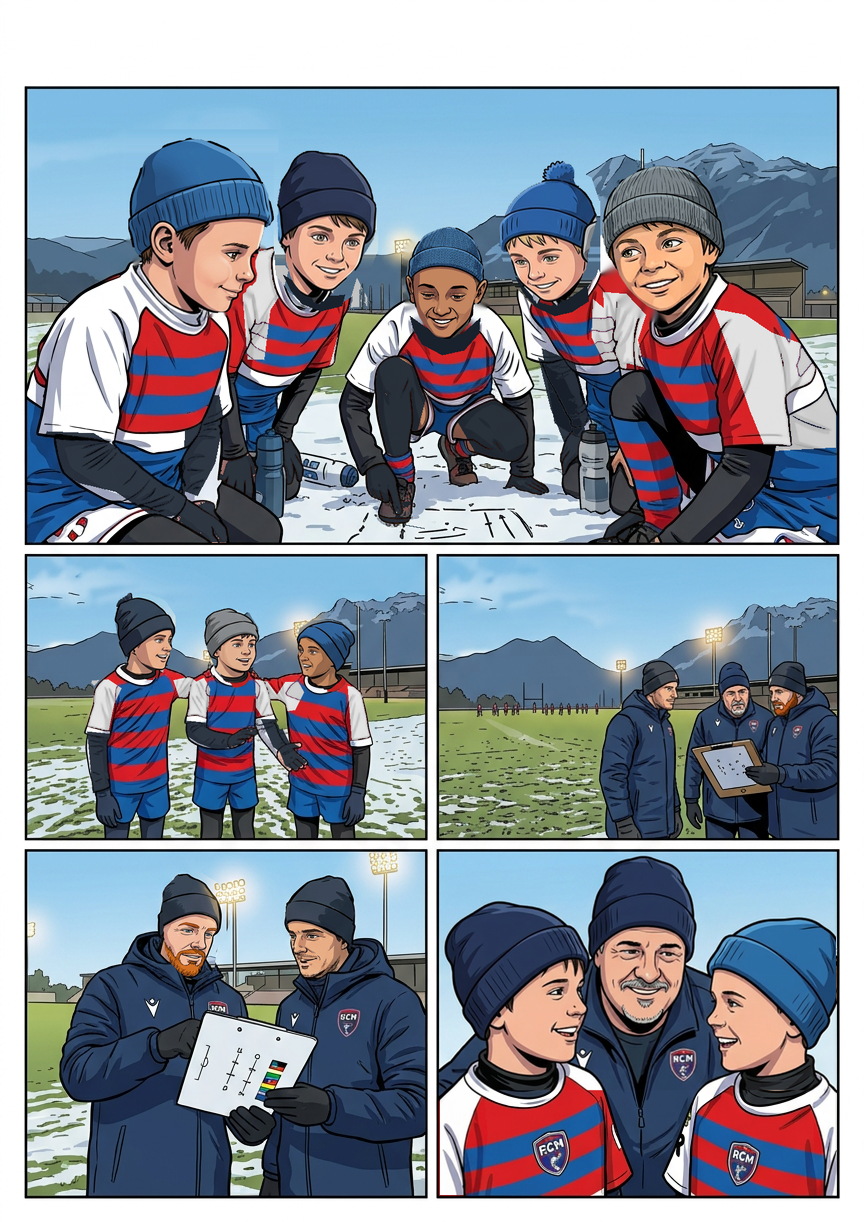
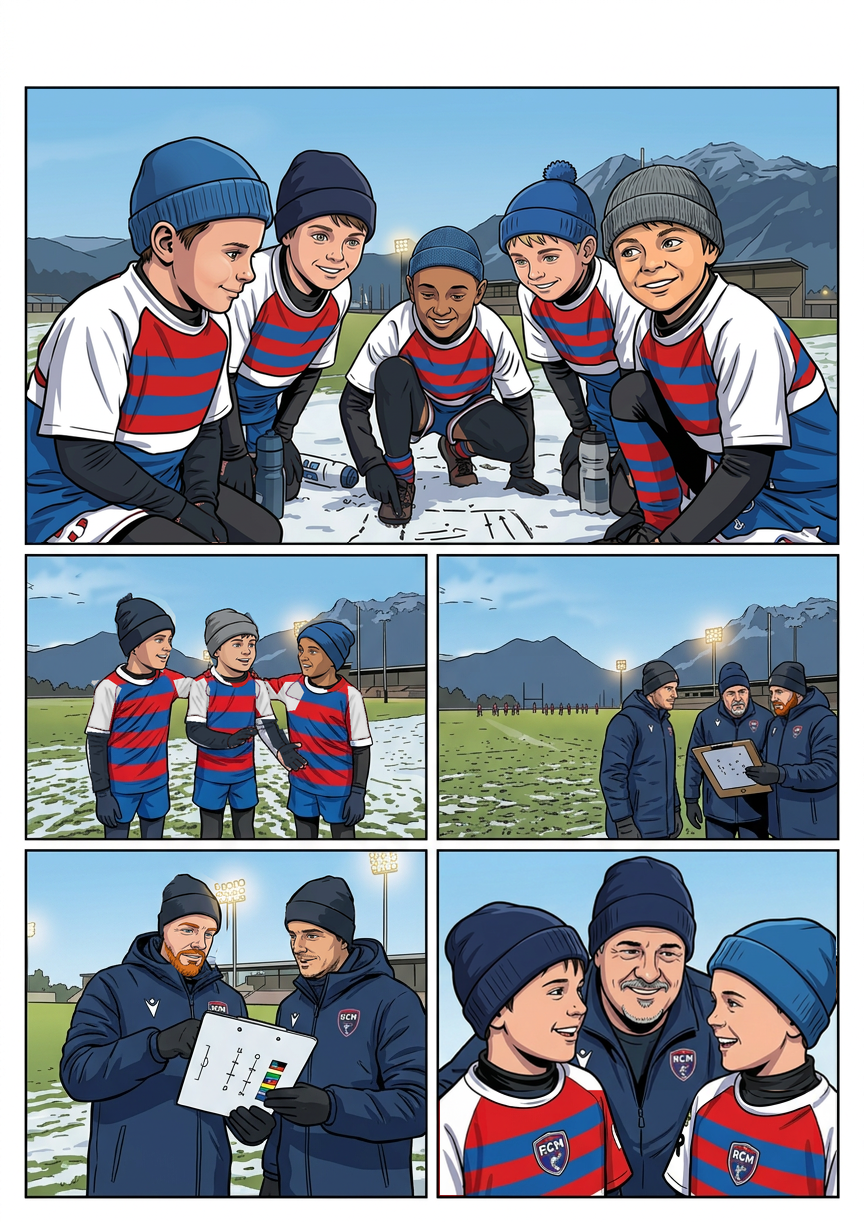
Nettoyer les raccords de 19-1 et reprendre les cinq cases de la planche 20

diff --git a/Planches-dessin/validation/REVUE-COUVERTURE.md b/Planches-dessin/validation/REVUE-COUVERTURE.md
@@ -21,13 +21,13 @@ Les huit recadrages exacts sont dans `revue-couverture/<Prénom>-couverture.png`
 |---|---:|
 | Planches vues en ensemble | 30 |
 | Vignettes réellement inventoriées | 153 |
-| Premières reprises intégrées, encore à relire | 99 |
-| Corrections seulement partielles, à poursuivre | 1 |
+| Premières reprises intégrées, encore à relire | 105 |
+| Corrections seulement partielles, à poursuivre | 0 |
 | Contrôles sans retouche, encore à relire | 1 |
-| Autres vignettes restant à contrôler individuellement | 52 |
+| Autres vignettes restant à contrôler individuellement | 47 |
 | Validations définitives de style et ressemblance | **0** |
 
-Les 100 vignettes ayant reçu une intervention ne sont pas 100 vignettes définitivement conformes. Le reste de la revue demandée n’est pas terminé. Le manifeste `REVUE-COUVERTURE.json` conserve une entrée et un état explicite pour chacune des 153 vignettes.
+Les 105 vignettes ayant reçu une intervention ne sont pas 105 vignettes définitivement conformes. Le reste de la revue demandée n’est pas terminé. Le manifeste `REVUE-COUVERTURE.json` conserve une entrée et un état explicite pour chacune des 153 vignettes.
 
 ## Première livraison : 26/3 et 26/6
 
@@ -377,11 +377,35 @@ Preuves U : `revue-couverture/lot-u/18-4-AVANT-APRES.jpg`, masque de cette repri
 
 **19/5 :** Lyssandro à gauche, Julien derrière au centre, Léon à droite : bonnets marine/marine/bleu ajoutés sans changer les regards échangés et les sourires. Visages rapprochés des modèles, bouc/moustache gris de Julien conservés ; longs cols thermiques sombres et manches extérieures blanches, notamment le cap rouge de Lyssandro repris. Corps et écussons hors zones locales conservés ; petits marquages historiques restent à harmoniser avec la série.
 
-Preuves V : `revue-couverture/lot-v/19-AVANT-APRES.jpg`, cinq masques et `19-1-A-REPRENDRE.jpg`. Ces preuves ne certifient ni ressemblance exacte ni raccord parfait. Les faces recalées et les jerseys blancs/noirs de 19/1 ont amélioré l'identification et la continuité hivernale, mais les raccords d'assemblage visibles empêchent de déclarer cette case achevée même en première passe. **Priorité suivante : nettoyer 19/1, avant la planche 20.**
+Preuves V : `revue-couverture/lot-v/19-AVANT-APRES.jpg`, cinq masques et `19-1-A-REPRENDRE.jpg`. Ces preuves ne certifient ni ressemblance exacte ni raccord parfait. Les faces recalées et les jerseys blancs/noirs de 19/1 ont amélioré l'identification et la continuité hivernale, mais les raccords d'assemblage visibles empêchent de déclarer cette case achevée même en première passe. **Priorité historique du lot V : nettoyer 19/1 avant 20 — reprise W ci-dessous effectuée.**
 
 Réserves transversales pour 19/2–5 : proportions et âge sous bonnets, carnations comparées à la couverture, contours des thermiques/gants et caps blancs ; cohérence de l'encrage avec le paysage ; petits écussons historiques aux lettres variables FCM/RCM/SCN à harmoniser graphiquement sans inventer de dialogue. En 19/3, le groupe lointain n'est pas une vue exhaustive et dénombrable des vingt enfants. Les mains et marques du calendrier/feuille restent celles de l'image source. Aucun nom d'adversaire ni date fabriqué.
 
 Bilan courant : **99 premières reprises, 1 correction partielle (19/1), 1 contrôle sans retouche, 52 cases encore à examiner individuellement ; 0 validation définitive sur 153.** Pas de bulles, dialogues ni onomatopées ajoutés. La dernière phase de textes reste différée jusqu'à la validation graphique complète et transversale.
+
+## Vingt-deuxième livraison : raccords 19/1 repris, planche 20 examinée et corrigée
+
+**19/1 — lot W :** Reprise W de la case restée partielle : assemblage nettoyé, ciel sans rectangle, cols thermiques noirs raccordés aux visages/anneaux blancs, caps de manches blancs redessinés en volumes continus, sans limites de peinture géométriques. Les cinq poses, regards, bonnets et carnations conservés : Léon/Lyssandro/Nolann/Ayden/Milo de gauche à droite. Oreillette grise inventée sur Ayden retirée par import limité au bord du bonnet/oreille ; minuscule mèche jaune ramenée au châtain clair. Main de Milo près de la bouteille couverte en sombre. Bouteilles et tracé de neige maintenus. La case passe en première reprise, pas en validation définitive : cohérence des marques de maillot, proportions/âge et densité du tricot des bonnets restent à relire transversalement.
+
+Preuves : `revue-couverture/lot-w/19-1-AVANT-APRES.jpg` et masque cumulatif. L'entrée existante de 19/1 est actualisée, sans doublon ; le témoin V « à reprendre » reste historique.
+
+**Planche 20 — lot X :** scénario des deux matchs et cinq recadrages réalistes consultés. La source réaliste donne les poses et le terrain, pas l'autorité sur les identités ou sur la technique : sa première case conservait un unique plaquage haut et omettait la touche lisible. Les candidats ont gardé les cadrages sans l'aplatissement des anciennes sorties de 19 ; leurs proportions ont été contrôlées avant intégration.
+
+**20/1 :** Reconstruction de l'action : deux plaqueurs RCM désormais bas aux jambes du porteur Le Môle, Nolann mat à gauche sous bonnet bleu, Ayden clair à droite sous bonnet bleu à pompon. Le porteur rouge/blanc garde l'unique ballon au buste. Trois soutiens en ligne derrière : Milo gris à gauche, Lyssandro marine au milieu, Léon bleu à droite. Le faux enfant barbu du fond a été remplacé par un enfant. Mise en continuité des bonnets/thermiques/leggings ; petit badge de bonnet inventé et pompon supplémentaire de Léon exclus localement. Le Môle blanc/rouge reste distinct du RCM. La source n'avait pas de ligne de touche lisible : ligne blanche et petit plot ajoutés derrière les acteurs, sans surimpression sur leurs membres ; pied droit du porteur au-delà, pied gauche encore côté terrain, pour rendre la sortie lisible avant la pénalité en 20/2. Raccord spatial de la séquence encore à relire.
+
+**20/2 :** Léon sous bonnet bleu aplatit l'unique ballon en plongeant ; main gantée au ballon et ligne d'en-but gardées. Lyssandro sous bonnet marine, derrière à gauche, finit son geste de passe vers l'essai ; adversaires Le Môle blanc/rouge maintenus derrière. Manches longues rouges du candidat ramenées au noir par masque local ; caps blancs, gants, leggings et bonnets repris. Pas d'encadré victoire ajouté.
+
+**20/3 :** Deuxième match, adversaires Thonon jaune/bleu conservés, porteur à droite marquant, partenaires bras levés, RCM derrière. Kilian à gauche sous bonnet marine reçoit visage/pilosité rousse du modèle ; tenues hivernales des enfants reprises. L'action suggère l'essai adverse mais aucun score, chronomètre ou texte n'est fabriqué. Cadrage et alignements de terrain/montagnes gardés ; groupe RCM partiellement cadré, pas une vue exhaustive des cinq.
+
+**20/4 :** Milo identifié sous bonnet gris, Léon sous bonnet bleu partiellement cadré à gauche en fin de passe, deux poursuivants Thonon jaune/bleu. Le premier candidat gardait une prise à la taille : rejeté pour cette prise. Deuxième reconstruction importée uniquement autour du défenseur et de l'ancienne prise, avec bras désormais aux cuisses/genoux sous la ceinture, mains recolorées en gants sombres. Sa tête est largement occultée derrière la cuisse/hanche de Milo : lisibilité et anatomie du contact restent à relire. L'unique balle lâchée vers l'avant, séparée des gants de Milo, reste celle du premier montage et n'a pas été réimportée avec le défenseur.
+
+**20/5 :** Milo gris assis en tailleur, deux mains gantées sur son bonnet et regard inquiet tourné vers Léon ; Léon bleu agenouillé à droite garde le contact rassurant à l'épaule. Visages rapprochés des références sans sourire de Milo ni colère inventée. Cols/caps blancs, leggings et gants repris ; longues manches rouges de Léon ramenées au noir localement et petit jour de peau au poignet de Milo couvert. Aucun dialogue ajouté, pas de ballon dans cette case.
+
+Preuves : `revue-couverture/lot-x/20-AVANT-APRES.jpg`, cinq masques des intérieurs de cases, et `20-4-PRISE-AVANT-APRES.jpg` montrant la prise haute du candidat écarté puis le montage bas. La couverture, les cadres, les gouttières et les zones hors cases restent inchangés. Les deux cas de marque gardent une seule balle, et l'en-avant une balle séparée des mains : ni balle dupliquée ni récupération anticipée.
+
+**Réserves de relecture transversale (aucune validation définitive) :** âge et proportions des enfants sous bonnets, teintes des ombres sur Nolann, noir des thermiques et formes des gants, densité de tricot variable des bonnets ; motif exact des maillots/sponsors/écussons à harmoniser graphiquement sur la couverture (notamment les petites lettres variables et les modèles de bandes en 19–20). Vérifier les contacts tête/bras/jambes des deux plaquages de 20/1 et du défenseur largement masqué en 20/4, ainsi que les articulations et la lecture spatiale des lignes entre les deux matchs. La touche ajoutée en 20/1 est un marqueur de terrain, pas une mesure dessinée certifiant les 30 m × 20 m. Ni score, ni chronomètre, ni distances exactes de trois mètres ne sont attestés par le dessin seul.
+
+**Bilan courant : 105 premières reprises, 0 correction partielle, 1 contrôle sans retouche, 47 vignettes encore à examiner individuellement, 0 validation définitive sur 153. Prochaine planche : 21.** Aucun dialogue, encadré score, bulle ou onomatopée ajouté. La phase de textes attend la validation graphique individuelle puis transversale complète.
 
 ## Contrôles techniques et audits historiques
 

diff --git a/Planches-dessin/SUIVI-STYLE.md b/Planches-dessin/SUIVI-STYLE.md
@@ -2,7 +2,7 @@
 
 **La couverture `00-couverture-marvel.png` est désormais la seule référence de style et d’identité.** La décision utilisateur remplace la priorité V2 décrite dans l’historique ci-dessous. La couverture reste inchangée.
 
-Suivi actuel : [`validation/REVUE-COUVERTURE.md`](validation/REVUE-COUVERTURE.md) et son manifeste JSON : 153 vignettes inventoriées, 99 premières reprises, 1 contrôle sans retouche, 1 correction partielle, 52 autres contrôles individuels à faire, aucune validation définitive. Les anciennes approbations ne valent pas conformité au nouveau référentiel. La prise trop haute de 18/4 est reprise au lot U. Priorité active : nettoyer les raccords du ciel, des cols/épaules et des caps de manches de 19/1, encore PARTIELLE, avant la planche 20. Aucune bulle ni texte ajouté.
+Suivi actuel : [`validation/REVUE-COUVERTURE.md`](validation/REVUE-COUVERTURE.md) et son manifeste JSON : 153 vignettes inventoriées, 105 premières reprises, 1 contrôle sans retouche, 0 correction partielle, 47 autres contrôles individuels à faire, aucune validation définitive. Les anciennes approbations ne valent pas conformité au nouveau référentiel. La prise de 18/4 est reprise au lot U ; les raccords de 19/1 sont nettoyés au lot W, puis les cinq cases de 20 reprises au lot X. Prochaine planche : 21. Réserves transversales sur contacts de plaquage, âge/traits sous bonnets et conformité des motifs/écussons/sponsors des tenues. Aucune bulle ni texte de dialogue ajouté.
 
 ---
 
